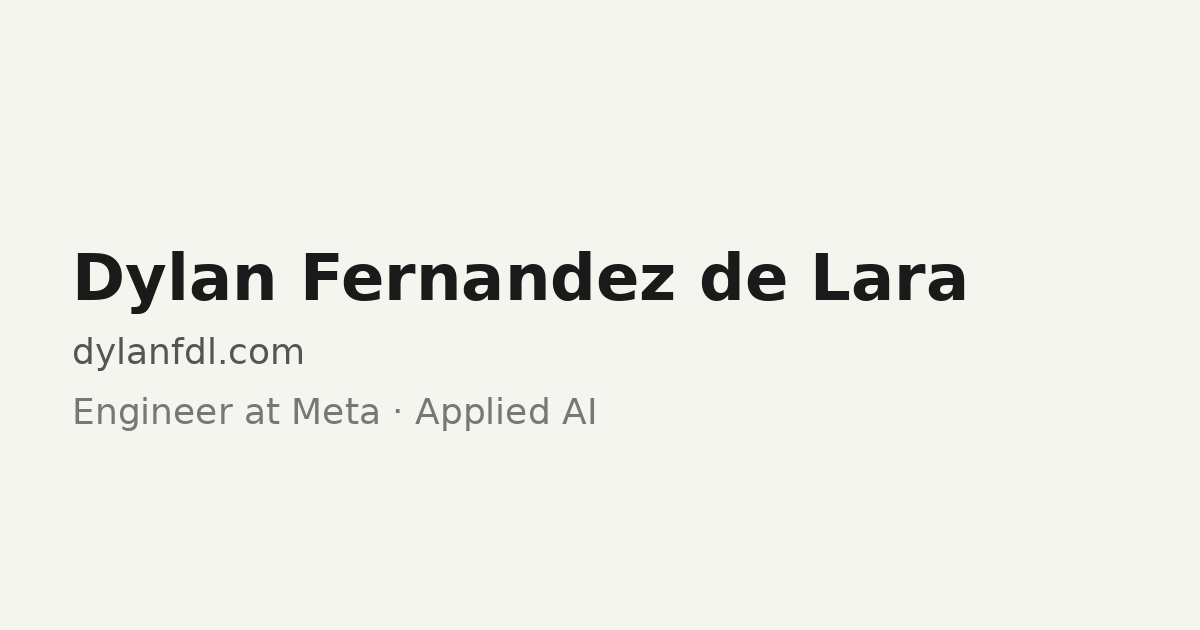
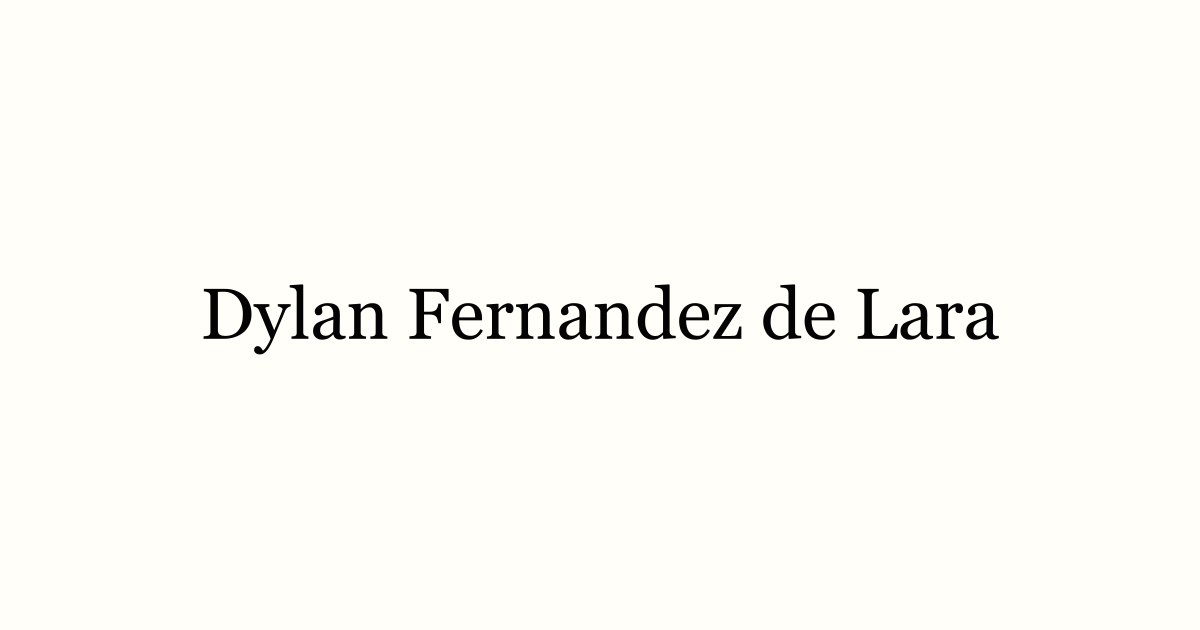
Simplify link preview to show only the site owner name.

Changed region(s): [[0.0617, 0.3921, 0.8325, 0.6032], [0.0617, 0.6333, 0.4933, 0.6937]]

diff --git a/tests/site.test.ts b/tests/site.test.ts
@@ -42,10 +42,9 @@ describe('site', () => {
     expect(OG_IMAGE_URL).toBe('https://dylanfdl.com/og-image.png')
   })
 
-  it('includes the full name and handle in the default description', () => {
+  it('uses the full name as the default description', () => {
     expect(SITE_NAME).toBe('dylanfdl')
-    expect(DEFAULT_DESCRIPTION).toContain('Dylan Fernandez de Lara')
-    expect(DEFAULT_DESCRIPTION).toContain('dylanfdl')
+    expect(DEFAULT_DESCRIPTION).toBe(PERSON_NAME)
   })
 
   it('lists all requested name variants for structured data', () => {
@@ -93,7 +92,7 @@ describe('site', () => {
   it('defines OG image dimensions and alt text', () => {
     expect(OG_IMAGE_WIDTH).toBe(1200)
     expect(OG_IMAGE_HEIGHT).toBe(630)
-    expect(OG_IMAGE_ALT).toContain(PERSON_NAME)
+    expect(OG_IMAGE_ALT).toBe(PERSON_NAME)
   })
 
   it('derives the sitemap index URL from SITE_URL', () => {

diff --git a/lib/site.ts b/lib/site.ts
@@ -22,7 +22,7 @@ export const OG_IMAGE_WIDTH = 1200
 
 export const OG_IMAGE_HEIGHT = 630
 
-export const OG_IMAGE_ALT = `${PERSON_NAME} — ${PERSON_TAGLINE}`
+export const OG_IMAGE_ALT = PERSON_NAME
 
 export const EMPLOYER_NAME = 'Meta'
 
@@ -39,8 +39,7 @@ export const PERSON_NAME_ALTERNATES = [
   'dylanfernandezdelara',
 ] as const
 
-export const DEFAULT_DESCRIPTION =
-  'Dylan Fernandez de Lara (Dylan Fernandez, Dylan Lara, dylanfdl) is an engineer at Meta working on Applied AI. Portfolio, projects, essays, and music.'
+export const DEFAULT_DESCRIPTION = PERSON_NAME
 
 export const NOT_FOUND_DESCRIPTION = 'Page not found on dylanfdl.com.'
 
